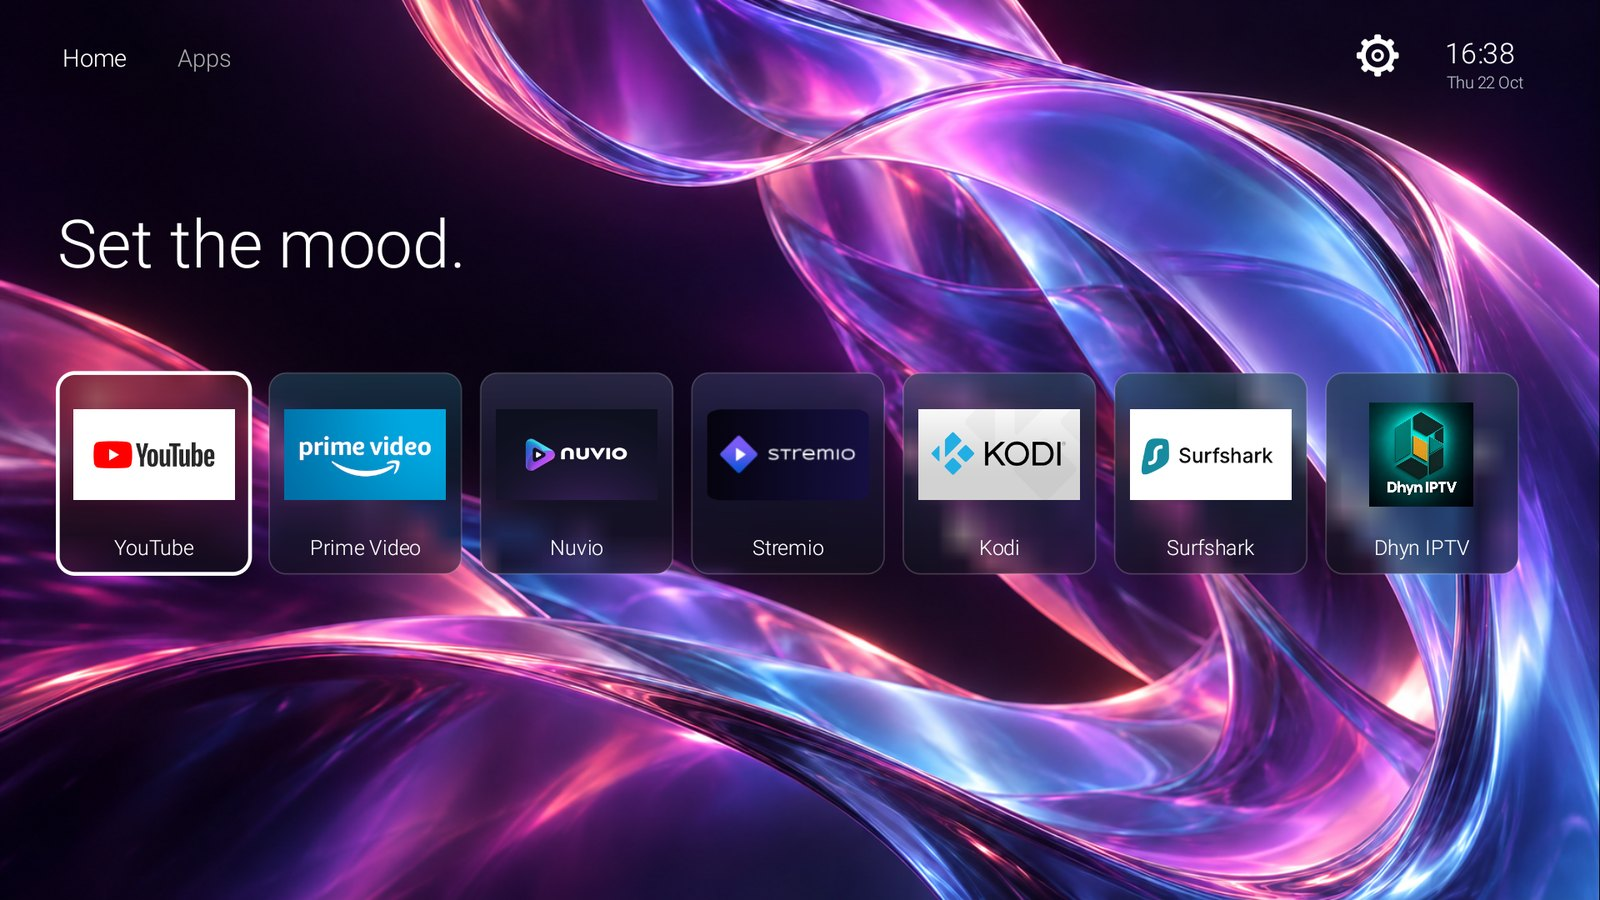
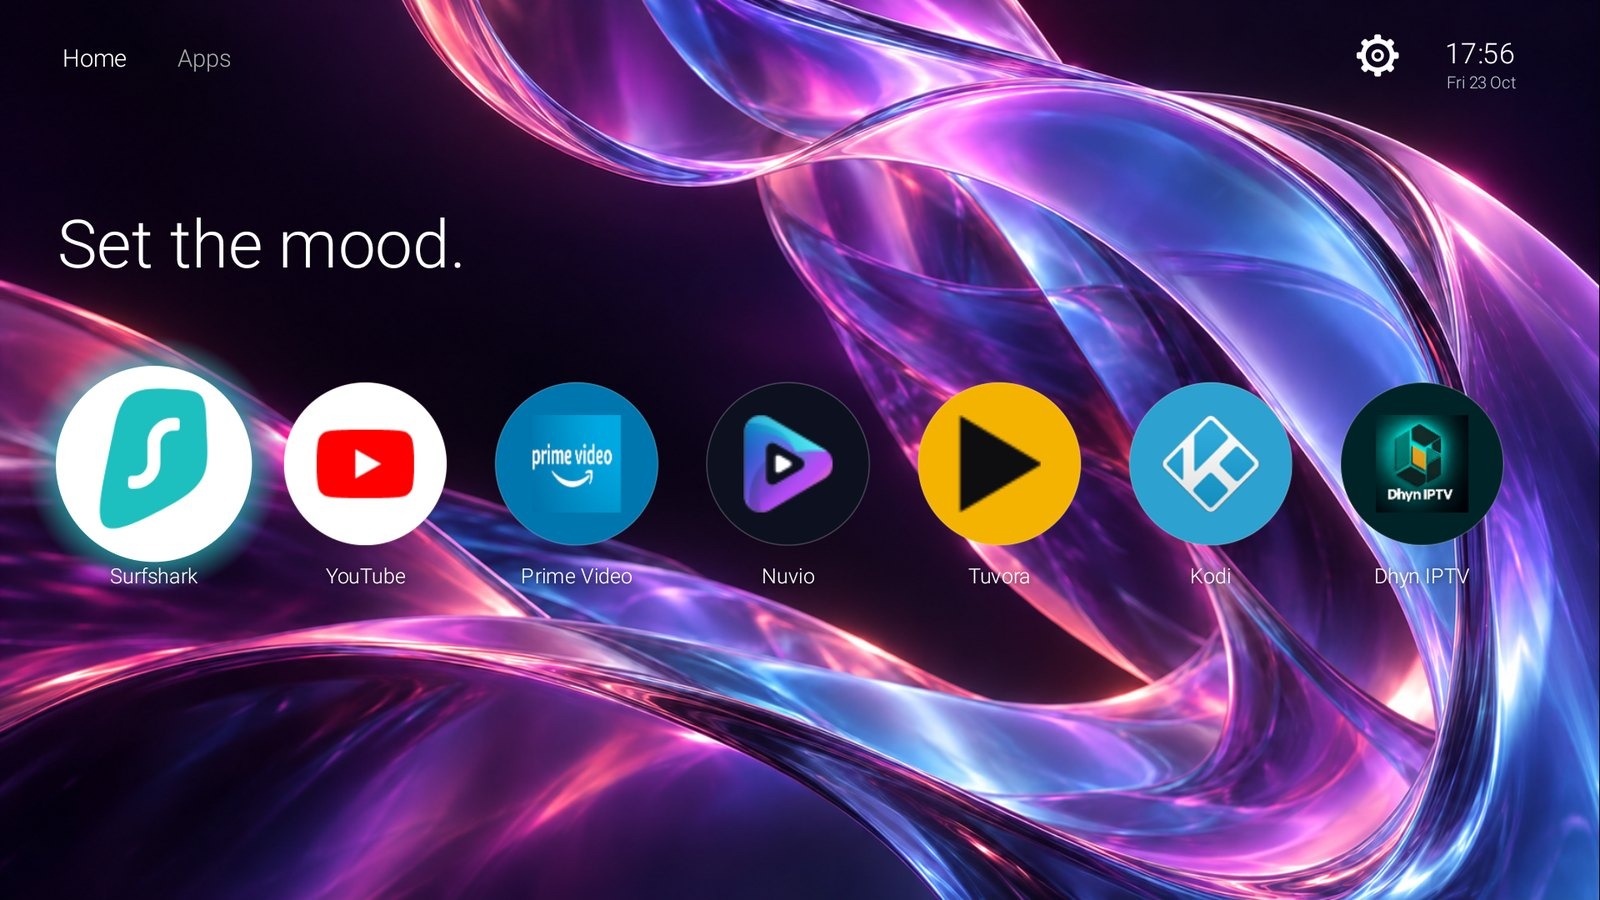
Luma 1.2.1: round Prism, home rows of any length in Aurora and Cinema Shelf

Changed region(s): [[0.0, 0.3733, 0.9688, 0.6533], [0.9062, 0.0311, 0.9375, 0.0933]]

diff --git a/README.md b/README.md
@@ -10,16 +10,18 @@ TV's settings. No ads, no rows of recommendations.
 |---|---|
 | ![Aurora theme: glossy tinted tiles under "Your night starts here."](docs/screenshots/aurora.jpg) | ![Cinema Shelf theme: tall scenic poster cards over a misty lake](docs/screenshots/cinema-shelf.jpg) |
 | **Prism** | **Nebula** |
-| ![Prism theme: frosted glass tiles over glass ribbons](docs/screenshots/prism.jpg) | ![Nebula theme: a large preview of the selected app beside a grid of apps](docs/screenshots/nebula.jpg) |
+| ![Prism theme: round app icons with their names under glass ribbons, the selected one larger with a white ring and glow](docs/screenshots/prism.jpg) | ![Nebula theme: a large preview of the selected app beside a grid of apps](docs/screenshots/nebula.jpg) |
 | **Daylight** | |
 | ![Daylight theme: a light home with a big preview of the selected favourite above rows of every app](docs/screenshots/daylight.jpg) | |
 
 *Screenshots from a Fire TV. The apps shown are the ones installed on that TV; their names and artwork belong to their owners.*
 
 - **Six themes:** Lunar, Aurora, Cinema Shelf, Prism and Nebula, each with its own wallpaper and
-  card style (frosted glass, glossy tiles or scenic posters), and Daylight, a light home in the style of a
+  card style (frosted glass, glossy tiles, scenic posters or round icons), and Daylight, a light home in the style of a
   streaming box: a big preview of the focused favourite, all your apps in rows, and a gentle lift on the selected tile.
 - **Cards made from your apps:** each card uses the app's own TV banner or icon, tinted to match.
+- **As many home apps as you like:** in Aurora and Cinema Shelf the home row takes any number of apps and slides along as you
+  move; add them from All apps (Hold OK > Add to home). The other themes show the first seven.
 - **Built for the remote:** a crisp highlight that moves straight to the tile you press, Hold OK to rearrange, Luma-styled menus.
 - **Settings in one place:** the gear opens Luma Settings (Appearance, TV settings, About).
 - **Screen-reader friendly:** every tile, menu row and top-bar item is labelled.

diff --git a/docs/superpowers/specs/2026-10-22-tv-setup-design.md b/docs/superpowers/specs/2026-10-22-tv-setup-design.md
@@ -43,7 +43,7 @@ already disabled before Luma; a unit-test framework.
 | `MainActivity.java` | Settings gets a "TV setup" panel; update hint on resume; crash guard. ADB work runs on a background thread, with results posted to the UI. | TvControl |
 
 Manifest: add `android.permission.INTERNET` (required for a localhost socket), the `LumaDream` service
-(`BIND_DREAM_SERVICE`), and `HomeKey` (`BIND_ACCESSIBILITY_SERVICE`, only if built). Version 1.3, versionCode 15.
+(`BIND_DREAM_SERVICE`), and `HomeKey` (`BIND_ACCESSIBILITY_SERVICE`, only if built). Version 1.3, versionCode 16.
 
 ## User flow (Settings → TV setup, Luma panel style)
 1. **Developer access.** Shows one-off steps for the platform (Fire TV: Settings → My Fire TV → Developer options → ADB
